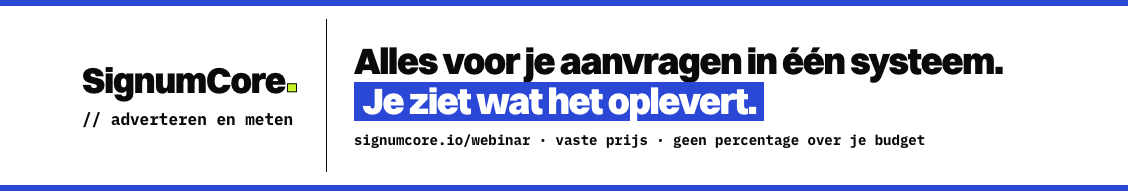
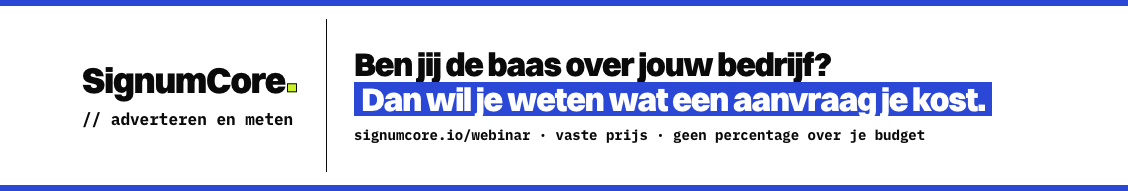
chore(kit): covers opnieuw gerenderd voor #566 en Reddit-route vastgelegd
De titelzin op signum-website is opnieuw gewijzigd (PR #566), dus alle
covers en banners zijn opnieuw gerenderd met "Ben jij de baas over jouw
bedrijf? / Dan wil je weten wat een aanvraag je kost."

Nieuw beeld: reddit-header-1280x384.png. Reddit eist voor de profielbanner
10:3 en maximaal 500 KB; de bestaande 1920x384 is 5:1 en wordt bijgesneden.

vindplaatsen.md: de eerdere conclusie dat Reddit geen bestandsveld in de DOM
heeft was fout — die meting liep terwijl het dialoogvenster nog dicht was.
Het veld staat in de shadow root van <settings-dropzone>, die niet in de
toegankelijkheidsboom komt. De werkende route (veld tijdelijk naar de lichte
DOM, vullen, terugzetten, change met composed:true) staat nu beschreven,
net als de multipart-POST naar /api/upload_sr_img voor de avatar via oud
Reddit. Log bijgewerkt met Facebook, X, YouTube, LinkedIn en Reddit.

Changed region(s): [[0.3103, 0.2356, 0.8998, 0.6545], [0.3103, 0.6806, 0.8378, 0.7853]]

diff --git a/vindplaatsen.md b/vindplaatsen.md
@@ -13,13 +13,13 @@ Kolom "Menselijk": wat alleen jij kunt (account aanmaken, e-mail/sms-verificatie
 | A3 | X | LIVE: https://x.com/SignumCoreio | @SignumCoreio (eerste én tweede keus bezet) | avatar-wit-400 · x-header-1500x500 | account, e-mail/sms, captcha | nofollow |
 | A4 | Instagram (zakelijk) | LIVE: https://www.instagram.com/signumcore_io/ | @signumcore_io (eerste keus bezet) | avatar-wit-320 · instagram-post-1080x1080 | account, verificatie, omzetten naar zakelijk | nofollow |
 | A5 | Threads | LIVE: https://www.threads.com/@signumcore_io | @signumcore_io | avatar erft van Instagram | **klaar 10 sep**: naam, monogram, bio, link naar de sessie | nofollow |
-| A6 | Facebook-pagina | https://www.facebook.com/pages/create | @signumcore | avatar-wit-500 · facebook-paginacover-1640x624 | persoonlijk account nodig, pagina aanmaken | nofollow |
+| A6 | Facebook-pagina | LIVE: https://www.facebook.com/profile.php?id=61594027991854 | numerieke id, gebruikersnaam nog te claimen | avatar-wit-500 · facebook-paginacover-1640x624 | **klaar 10 sep**: naam, categorie Marketingbureau, bio, website, e-mail, foto, omslag | nofollow |
 | A7 | YouTube-kanaal | LIVE: https://www.youtube.com/@signumcore | @signumcore | avatar-wit-800 · youtube-kanaalbanner-2560x1440 | Google-account, merkaccount kiezen | nofollow |
 | A8 | TikTok | https://www.tiktok.com/signup | @signumcore | avatar-wit-200 | account, verificatie; zakelijk account voor weblink | nofollow |
 | A9 | Pinterest (zakelijk) | https://www.pinterest.com/business/create/ | @signumcore | avatar-wit-400 | account; site claimen via metatag (website-PR) | nofollow |
 | A10 | Bluesky | https://bsky.app | @signumcore.io (domein als handle) | avatar-wit-1024 · bluesky-mastodon-banner-1500x500 | account; daarna DNS TXT `_atproto` op Vercel DNS | nofollow |
 | A11 | Mastodon | https://mastodon.social/auth/sign_up (of mastodon.nl) | @signumcore | avatar-wit-400 · bluesky-mastodon-banner-1500x500 | account, e-mailverificatie | rel=me-verificatie: vinkje bij website (website-PR) |
-| A12 | Reddit | LIVE: https://www.reddit.com/user/SignumCoreio/ | u/SignumCoreio (eerste én tweede keus bezet) | avatar-wit-256 · reddit-profielbanner-1920x384 | account, e-mail; eventueel r/signumcore (reddit-communitybanner-4000x256) | nofollow |
+| A12 | Reddit | LIVE: https://www.reddit.com/user/SignumCoreio/ | u/SignumCoreio (eerste én tweede keus bezet) | avatar-wit-256 · reddit-header-1280x384 (10:3, max 500 KB) | account, e-mail; eventueel r/signumcore (reddit-communitybanner-4000x256) | nofollow |
 
 Regels: (1) overal `signumcore`; is dat bezet, dan `signumcore_io`, daarna `signumcoreio`, en dat noteren in de log onderaan. (2) Op elk profiel de site-URL en waar het kan e-mail. (3) Eerste post per platform staat in `profiel-teksten.md` §6.
 
@@ -155,13 +155,18 @@ URL in §I loggen, afwijkende handle vastleggen, en een website-PR met de nieuwe
 | 2026-09-10 | X | in aanvraag | SMS-code + naam + handle resteren; handle wordt `signumcore_io` (`signumcore` is een beschermd account uit 2011) | — |
 | 2026-09-10 | Threads | — | één klik via threads.com ("Join with Instagram — signumcore_io"); die knop is het akkoord op de voorwaarden, dus die zet Mink zelf | — |
 | 2026-09-10 | Facebook-pagina | — | **geblokkeerd**: "We noticed suspicious activity — Finish SMS verification on mobile app before creating a new page." Vier pogingen, ook na installatie van de Meta-app. Formulier stond compleet (naam, categorie Marketingbureau, bio). Mink: SMS-verificatie ín de app afronden | — |
+| 2026-09-10 | Facebook-pagina | https://www.facebook.com/profile.php?id=61594027991854 | pagina live nadat Mink de sms-verificatie in de Meta-app had afgerond. Naam SignumCore, categorie Marketingbureau, bio, website naar de sessie, e-mail, monogram, omslag met de nieuwe titelzin | nofollow |
+| 2026-09-10 | X | https://x.com/SignumCoreio | header vervangen door de opnieuw gerenderde `x-header-1500x500.png` met de titelzin uit PR #566 | nofollow |
+| 2026-09-10 | YouTube | https://www.youtube.com/@signumcore | kanaalbanner vervangen door de opnieuw gerenderde 2560x1440 met de titelzin uit PR #566 | nofollow |
+| 2026-09-10 | LinkedIn | https://www.linkedin.com/company/signumcore | coverafbeelding bijgewerkt. De slogan is **niet** aangepast: een tweede sessie zat op datzelfde moment in dezelfde velden en LinkedIn gaf "Een andere beheerder van deze pagina probeert gelijktijdig wijzigingen te maken" | nofollow |
+| 2026-09-10 | Reddit | https://www.reddit.com/user/SignumCoreio/ | avatar en banner staan er nu op. Route: zie hieronder | nofollow |
 
 ### Herhaalde pogingen op 10 sep (avond)
 
 - **Facebook** — vijfde poging, formulier compleet, zelfde blokkade: "We noticed suspicious activity — Finish SMS verification on mobile app before creating a new page." Er is geen omweg via Business Suite. Wacht op Minks SMS-verificatie in de Meta-app.
 - **X** — `x.com/signumcore_io` geeft "This account doesn't exist": de registratie is niet afgerond. Wacht op de SMS-code.
 - **Threads** — `threads.com/@signumcore_io` leidt naar de aanmeldpagina. De knop "Use your Instagram account" is tegelijk het akkoord op de voorwaarden; die zet Mink.
-- **Reddit avatar en banner** — nu preciezer gemeten dan eerder: het `input[type=file]` bestáát wél (accept `image/x-png,image/jpeg,image/png`), maar pas nadat de Banner-dialoog geopend is, en het staat niet in de toegankelijkheidsboom. `find` vindt het daardoor niet en `file_upload` kan er geen ref voor krijgen. Blijft handwerk.
+- **Reddit avatar en banner** — nu preciezer gemeten dan eerder: het `input[type=file]` bestáát wél (accept `image/x-png,image/jpeg,image/png`), maar pas nadat de Banner-dialoog geopend is, en het staat in de shadow root van `<settings-dropzone>`, die de toegankelijkheidsboom niet in loopt. `find` vindt het daardoor niet en `file_upload` kan er geen ref voor krijgen. **Opgelost in de ronde erna**, zie "Wat een bestandskiezer blokkeert".
 
 ### Twee dingen op de site zelf die hierop wachten
 
@@ -185,7 +190,7 @@ URL in §I loggen, afwijkende handle vastleggen, en een website-PR met de nieuwe
 | 2026-09-10 | LinkedIn bedrijfspagina | https://www.linkedin.com/company/signumcore | compleet: logo, cover, tagline, overzicht, branche, 0-1 medewerkers, eigen bedrijf, opgericht 2025, 10 specialismen, Wageningen zonder straat, knop naar de sessie | nofollow |
 | 2026-09-10 | YouTube | https://www.youtube.com/@signumcore | kanaal live: banner, monogram, beschrijving (949/1000), 4 links (site, sessie, LinkedIn, GitHub), contact-e-mail | nofollow |
 | 2026-09-10 | Instagram | https://www.instagram.com/signumcore_io/ | account live: naam SignumCore, monogram, bio met sessie-link. Handle `signumcore` bezet, tweede keus. Website-veld kan alleen in de mobiele app, daarom staat de URL in de bio | nofollow |
-| 2026-09-10 | Reddit | https://www.reddit.com/user/SignumCoreio/ | account live: displaynaam SignumCore, beschrijving, twee social links (website, LinkedIn). Handle `signumcore` en `signumcore_io` beide bezet, **derde keus**. Avatar en banner blijven handwerk, zie hieronder | nofollow |
+| 2026-09-10 | Reddit | https://www.reddit.com/user/SignumCoreio/ | account live: displaynaam SignumCore, beschrijving, twee social links (website, LinkedIn). Handle `signumcore` en `signumcore_io` beide bezet, **derde keus**. avatar en banner staan er sinds deze ronde ook op, zie "Wat een bestandskiezer blokkeert" | nofollow |
 | 2026-09-10 | Threads | — | staat klaar op één klik: threads.com toont "Join with Instagram — signumcore_io". Die knop is tegelijk het akkoord op de voorwaarden, dus die zet Mink zelf | nofollow |
 | 2026-09-10 | X | https://x.com/SignumCoreio | account live: naam SignumCore, monogram, header, bio, locatie Nederland, wachtlijst-link. Registratie liep via telefoon (e-mailroute bestaat niet meer). **Derde keus**: `signumcore` is bezet door een beschermd account uit juni 2011, `signumcore_io` was ook niet vrij | nofollow |
 | 2026-09-10 | Facebook-pagina | — | geblokkeerd: "We noticed suspicious activity: Finish SMS verification on mobile app before creating a new page". Drie pogingen, identieke melding, ook nadat de Meta-app was geïnstalleerd: de verificatie moet ín de app worden afgerond, installeren alleen is niet genoeg. Business Suite biedt geen uitweg | — |
@@ -224,4 +229,43 @@ De org-instellingen bieden precies vier velden voor social links; die zitten vol
 
 ### Wat een bestandskiezer blokkeert
 
-Reddit (avatar, banner) heeft **geen** `input type=file` in de DOM, ook niet in shadow roots — gemeten met een recursieve `querySelectorAll`-walk over alle shadowRoots, resultaat lege lijst. Reddit maakt het veld pas aan bij de klik en opent direct een systeem-bestandskiezer. Die twee blijven dus handwerk. Uploads die wél lukken via een bereikbaar veld: LinkedIn (logo, cover), YouTube (banner, foto), Instagram (avatar), GitHub (org-avatar, repo social preview).
+De vorige meting hier was fout en stond een ronde lang verkeerd in dit bestand. De conclusie luidde dat Reddit geen `input type=file` in de DOM heeft. Dat kwam doordat de shadow-walk liep terwijl het dialoogvenster nog dicht was. Reddit maakt het veld pas aan bij het openen van het dialoogvenster.
+
+Wat er werkelijk aan de hand is, en hoe het wél lukt:
+
+**Nieuw Reddit — profielbanner.** `reddit.com/settings/profile` → rij "Banner" → klik de knop met `aria-label="Open modal to change setting: Banner"`. Niet de rij zelf: die is een `<label>` zonder eigen handler. Pas ná het openen bestaat er een `input[type=file]`, en die zit in de shadow root van `<settings-dropzone>`. De toegankelijkheidsboom van de browsertools loopt die shadow root niet in, dus `find` en `read_page` zien het veld nooit en `file_upload` kan er geen ref voor krijgen. Zichtbaar maken helpt niet — de boom blijft hem overslaan.
+
+Wat wel werkt is het veld één stap naar de lichte DOM verplaatsen, vullen, en terugzetten:
+
+1. Loop met een recursieve `querySelectorAll` over alle shadowRoots en pak het `input[type=file]`.
+2. Bewaar `parentNode` en `nextSibling`, hang het veld aan `document.body` en geef het een `aria-label`.
+3. `find` vindt het nu wel; `file_upload` met die ref zet het bestand erin.
+4. Zet het veld terug op zijn oude plek en vuur zelf `input` en `change` af, allebei met `bubbles: true` en `composed: true`. Zonder `composed` komt de gebeurtenis de shadow-grens niet over.
+5. Het dialoogvenster toont de voorbeeldweergave. Daarna Opslaan.
+
+Eisen van dat dialoogvenster: JPG of PNG, maximaal 500 KB. `reddit-header-1280x384.png` (10:3, 34 KB) past; de bredere `reddit-profielbanner-1920x384.png` is 5:1 en wordt bijgesneden.
+
+**Oud Reddit — avatar.** `old.reddit.com/user/<naam>/about/edit` heeft drie formulieren met een gewoon zichtbaar bestandsveld: `image-upload` (kopafbeelding, `header=1`), `icon-upload` (`upload_type=icon`) en `banner-upload` (`upload_type=banner`). De "upload"-knoppen blijven `disabled` omdat oud Reddit ze pas vrijgeeft na een vertrouwde `change`. Die knop is niet nodig: het formulier post gewoon multipart naar `/api/upload_sr_img`. Vul het veld met `file_upload` en verstuur het formulier zelf:
+
+```js
+const f = document.getElementById('icon-upload')
+const fd = new FormData(f); fd.delete('upload')
+const r = await fetch('/api/upload_sr_img', { method: 'POST', body: fd, credentials: 'same-origin' })
+```
+
+Antwoord `completedUploadImage('saved', '<url>')` betekent gelukt.
+
+Twee dingen om te weten bij deze route:
+
+- Alleen `icon-upload` zette de avatar die nieuw Reddit toont. `banner-upload` schrijft `banner_img` op het gebruikers-subreddit, en dát veld leest nieuw Reddit **niet** voor de profielbanner. Controleer met `r/u_<naam>/about.json`: `icon_img` gevuld is goed, `banner_img` gevuld zegt niets over wat bezoekers zien. De profielbanner loopt via het dialoogvenster hierboven.
+- Slechts twee van de drie bestandsvelden komen in de toegankelijkheidsboom. Om een bestand in het derde te krijgen: upload het in een veld dat wél een ref heeft, en verplaats het `File`-object met een `DataTransfer` naar het juiste veld.
+
+**Losse regel over `javascript_tool`.** De uitvoer wordt geweigerd zodra er iets in zit dat op een sleutel of een querystring lijkt. Oud Reddit zet een modhash in elk formulier, dus `outerHTML` teruggeven van zo'n formulier levert `[BLOCKED: Cookie/query string data]` op en je ziet niets. Geef alleen samengevatte velden terug, en strip het antwoord van een upload voordat je het leest.
+
+Uploads die via een gewoon bereikbaar veld lukken: LinkedIn (logo, cover), YouTube (banner, foto), Instagram (avatar), Facebook (foto, omslag), X (avatar, header), GitHub (org-avatar, repo social preview).
+
+### Twee sessies in dezelfde velden
+
+LinkedIn weigert gelijktijdige bewerkingen met "Een andere beheerder van deze pagina probeert gelijktijdig wijzigingen te maken". Dat gebeurde bij de slogan: opslaan mislukte, de knop werd "Opnieuw proberen", en in het veld stond een zin die deze sessie nooit had getypt. Dat is het bewijs dat er een tweede sessie in dezelfde pagina zat.
+
+Regel: stop met bewerken zodra je een tekst ziet die je zelf niet hebt ingevuld. Doorduwen overschrijft het werk van de andere sessie zonder waarschuwing, en LinkedIn houdt geen versies bij. Ditzelfde geldt voor `profiel-teksten.md`: dat bestand is deze ronde door een parallelle sessie bijgewerkt naar de nieuwe titelzin.

diff --git a/README.md b/README.md
@@ -1,13 +1,30 @@
-# SignumCore brand
+# SignumCore social-kit
 
-Logo's, avatars en covers van [SignumCore](https://signumcore.io) op exacte platformmaat. Huisstijl: wit vlak, Switzer-kop, blauw accentblok `#2B47D6`, lime merkpunt `#C9F227`, IBM Plex Mono-bijschriften.
+Alle profielbeelden en covers op exacte pixelmaat, in de huisstijl van signumcore.io (wit vlak, Switzer-kop, blauw accentblok `#2B47D6`, lime merkpunt `#C9F227`, IBM Plex Mono-bijschriften). Gerenderd met `build/render.mjs` (Playwright); opnieuw draaien: `cd build && node render.mjs`.
 
-Vaste URL's voor gidsen die een logo vragen:
+## Bestanden in `uit/`
 
-- Monogram (vierkant): `https://raw.githubusercontent.com/SignumCore/brand/main/uit/avatar-wit-512.png`
-- Woordmerk (transparant): `https://raw.githubusercontent.com/SignumCore/brand/main/uit/woordmerk-zwart-transparant-2400x600.png`
-- Linkvoorbeeld 1200×630: `https://raw.githubusercontent.com/SignumCore/brand/main/uit/og-linkvoorbeeld-1200x630.png`
+| Bestand | Maat | Voor |
+|---|---|---|
+| avatar-wit-{1024,800,500,400,320,256,240,200,180,128}.png | vierkant | profielfoto overal (wit = standaard) |
+| avatar-blauw-{1024,500,400,256}.png | vierkant | alternatief waar wit wegvalt |
+| avatar-zwart-{1024,500,400}.png | vierkant | alternatief donker |
+| avatar-wit-rond-preview-400.png | rond | controle hoe het monogram in een cirkel valt |
+| woordmerk-zwart-transparant-2400x600.png | transparant | horizontaal logo voor gidsen |
+| woordmerk-wit-transparant-2400x600.png | transparant | idem, op donker |
+| og-linkvoorbeeld-1200x630.png | 1200×630 | statisch linkvoorbeeld voor gidsen die een beeld vragen |
+| github-social-preview-1280x640.png | 1280×640 | GitHub repo social preview |
+| producthunt-galerij-1270x760.png | 1270×760 | Product Hunt galerij (ondernemers) |
+| producthunt-galerij-bureaus-1270x760.png | 1270×760 | Product Hunt galerij (bureaus) |
+| instagram-post-1080x1080.png | 1080×1080 | eerste Instagram/Threads/LinkedIn-post |
+| instagram-story-1080x1920.png | 1080×1920 | story; boven en onder 250px vrijgehouden |
+| facebook-paginacover-1640x624.png | 1640×624 | Facebook; mobiel snijdt zijkanten af, tekst staat in de veilige kern |
+| youtube-kanaalbanner-2560x1440.png | 2560×1440 | YouTube; alles in de 1546×423-kern |
+| linkedin-bedrijfscover-1128x191.png | 1128×191 | LinkedIn bedrijfspagina |
+| linkedin-persoonlijk-cover-1584x396.png | 1584×396 | LinkedIn-profiel Mink; links 400px vrij voor de profielfoto |
+| x-header-1500x500.png | 1500×500 | X; linksonder vrij voor de avatar |
+| bluesky-mastodon-banner-1500x500.png | 1500×500 | Bluesky en Mastodon |
+| reddit-profielbanner-1920x384.png | 1920×384 | Reddit u/-profiel |
+| reddit-communitybanner-4000x256.png | 4000×256 | Reddit r/-community |
 
-Alle bestanden en hun bestemming: zie de tabel in `profiel-teksten.md` §1 en §5. Opnieuw renderen: `build/render.mjs` (Playwright) met de Switzer-woff2's uit signum-website `public/fonts/` in `bron/` (niet meegeleverd, Fontshare-licentie).
-
-Gebruik: het merk SignumCore is eigendom van SignumCore (KVK 93077149). Beelden mogen gebruikt worden om naar SignumCore te verwijzen, niet als eigen merk.
+Teksten per platform: `profiel-teksten.md`. Waar aanmelden en in welke volgorde: `vindplaatsen.md`.
